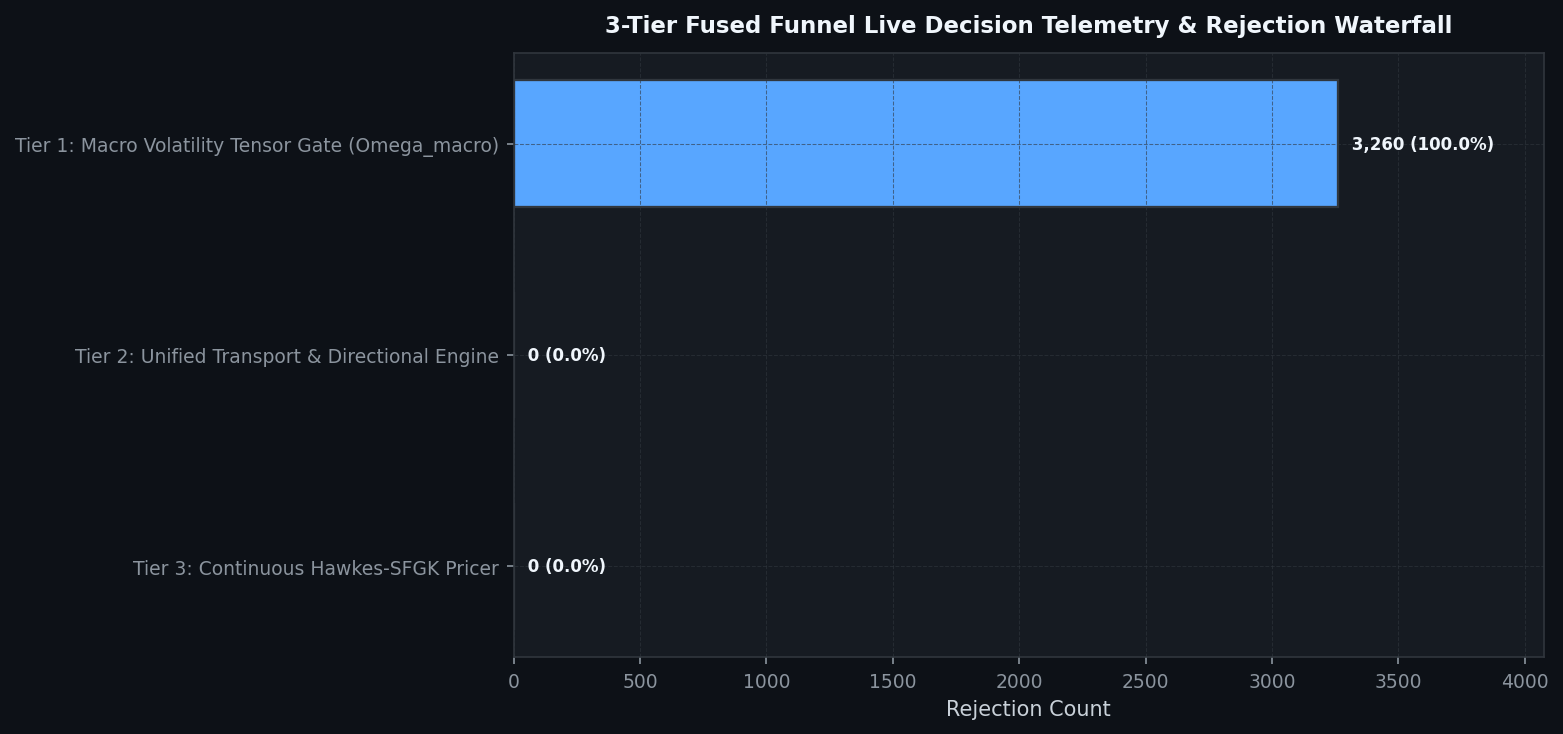
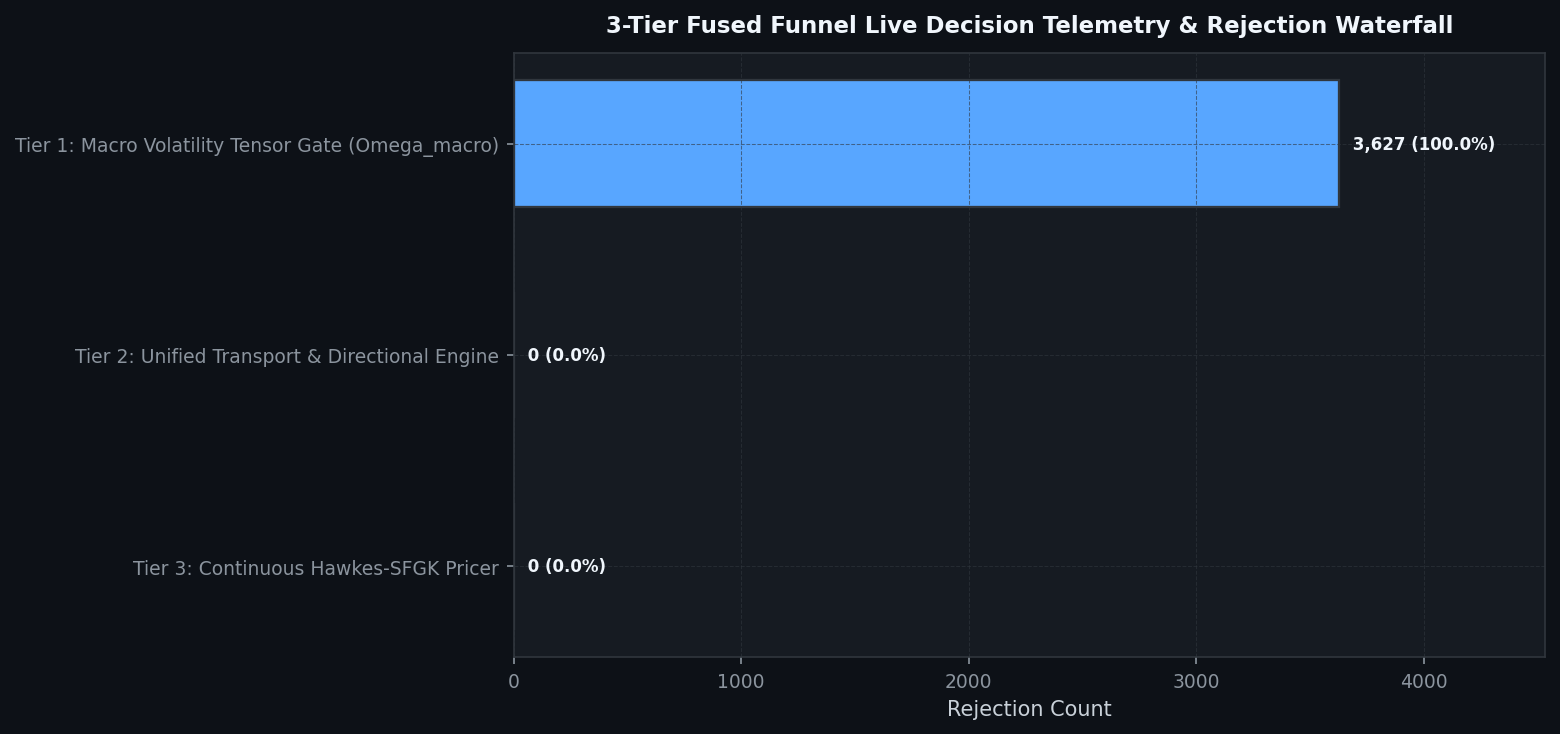
[coinbase] Hourly Status & Visual Intelligence Update: 2026-08-25 16:44:45

diff --git a/coinbase/data/hourly_status_report.md b/coinbase/data/hourly_status_report.md
@@ -3,7 +3,7 @@ layout: default
 ---
 
 # 🛡 Unified Trading System Hourly Status & Visual Intelligence
-> **Report Generated**: `2026-08-25 04:26:22 PM PDT (2026-08-25 23:26:22 UTC)`  
+> **Report Generated**: `2026-08-25 04:44:28 PM PDT (2026-08-25 23:44:28 UTC)`  
 > **System Health**: **🟡 DEGRADED / RESTRICTED** | **Win Rate**: `0.0%` | **Completed Trades**: `0`
 
 
@@ -15,13 +15,13 @@ Real-time Deribit implied volatility (DVOL) proxy tracking against mathematicall
 
 | Symbol | Proxy Oracle | Live Z-Score | Optimal Limit (YSP) | Safety Margin | Live VRP | Optimal VRP (YSP) | DAW Safety Verdict |
 | :--- | :--- | :--- | :--- | :--- | :--- | :--- | :--- |
-| `AVAX-USD` | DVOL_BTC | **+0.15** | **-0.50** | **+0.65** | **-4.36** | 5.0 | 🔴 DAW VETOED |
-| `ETH-USD` | DVOL_ETH | **+0.00** | **-0.50** | **+0.50** | **+10.60** | 5.0 | 🔴 DAW VETOED |
-| `ADA-USD` | DVOL_BTC | **+0.15** | **-0.50** | **+0.65** | **-4.36** | 5.0 | 🔴 DAW VETOED |
-| `DOGE-USD` | DVOL_BTC | **+0.15** | **-0.50** | **+0.65** | **-4.39** | 5.0 | 🔴 DAW VETOED |
-| `BTC-USD` | DVOL_BTC | **+0.15** | **-0.50** | **+0.65** | **-4.37** | 5.0 | 🔴 DAW VETOED |
-| `LINK-USD` | DVOL_BTC | **+0.15** | **-0.50** | **+0.65** | **-4.39** | 5.0 | 🔴 DAW VETOED |
-| `SOL-USD` | DVOL_BTC | **+0.15** | **-0.50** | **+0.65** | **-4.39** | 5.0 | 🔴 DAW VETOED |
+| `AVAX-USD` | DVOL_BTC | **+0.12** | **-0.50** | **+0.62** | **-4.68** | 5.0 | 🔴 DAW VETOED |
+| `ETH-USD` | DVOL_ETH | **-0.40** | **-0.50** | **+0.10** | **+10.18** | 5.0 | 🔴 DAW VETOED |
+| `ADA-USD` | DVOL_BTC | **+0.12** | **-0.50** | **+0.62** | **-4.68** | 5.0 | 🔴 DAW VETOED |
+| `DOGE-USD` | DVOL_BTC | **+0.12** | **-0.50** | **+0.62** | **-4.68** | 5.0 | 🔴 DAW VETOED |
+| `BTC-USD` | DVOL_BTC | **+0.12** | **-0.50** | **+0.62** | **-4.68** | 5.0 | 🔴 DAW VETOED |
+| `LINK-USD` | DVOL_BTC | **+0.12** | **-0.50** | **+0.62** | **-4.68** | 5.0 | 🔴 DAW VETOED |
+| `SOL-USD` | DVOL_BTC | **+0.12** | **-0.50** | **+0.62** | **-4.68** | 5.0 | 🔴 DAW VETOED |
 
 
 
@@ -37,16 +37,16 @@ We hereby certify that the mission-critical algorithmic data assets uploaded by 
 
 | Status | Data Asset | Freshness / State | Details / Timestamp |
 | :---: | :--- | :--- | :--- |
-| ✅ | **Go-List JSON** | Fresh (7.40h old) | 08-25 09:02 |
-| ✅ | **TimesFM Forecasts** | Fresh (0.41h old) | 08-25 16:02 |
-| ❌ | **Holding Times config** | STALE! (103.4h old) | Limit 45.4h |
-| ✅ | **BTC DVOL Cache** | Fresh (0.00h old) | 08-25 16:26 |
-| ✅ | **ETH DVOL Cache** | Fresh (0.00h old) | 08-25 16:26 |
-| ✅ | **Live Trading Telemetry** | Fresh (0.00h old) | 08-25 16:26 |
+| ✅ | **Go-List JSON** | Fresh (7.71h old) | 08-25 09:02 |
+| ✅ | **TimesFM Forecasts** | Fresh (0.71h old) | 08-25 16:02 |
+| ❌ | **Holding Times config** | STALE! (103.7h old) | Limit 45.7h |
+| ✅ | **BTC DVOL Cache** | Fresh (0.01h old) | 08-25 16:44 |
+| ✅ | **ETH DVOL Cache** | Fresh (0.01h old) | 08-25 16:44 |
+| ✅ | **Live Trading Telemetry** | Fresh (0.00h old) | 08-25 16:44 |
 
 <br>
 
-> **Utilization Certification**: ✅ **CERTIFIED.** The Guardian Watchdog is ONLINE and EC2 traders are actively querying the freshest MLOps data artifacts (Found 2324 recent read events).
+> **Utilization Certification**: ✅ **CERTIFIED.** The Guardian Watchdog is ONLINE and EC2 traders are actively querying the freshest MLOps data artifacts (Found 2446 recent read events).
 
 
 ---
@@ -55,7 +55,7 @@ Layer-by-layer tick evaluation waterfall and asset-specific performance tracking
 
 | Funnel Filter Layer | Total Rejections | % of Rejections |
 | :--- | :--- | :--- |
-| Tier 1: Macro Volatility Tensor Gate (Omega_macro) | `3,260` | **100.0%** |
+| Tier 1: Macro Volatility Tensor Gate (Omega_macro) | `3,627` | **100.0%** |
 | Tier 2: Unified Transport & Directional Engine | `0` | **0.0%** |
 | Tier 3: Continuous Hawkes-SFGK Pricer (HAS-Pricer) | `0` | **0.0%** |
 | System: Asset Cooldown Active | `0` | **0.0%** |
@@ -100,14 +100,14 @@ Live balance sheet and open maker liquidity positions from Coinbase CDP.
 ## 4. 🤖 Foundation Model MLOps & Pipeline Orchestration
 Weekly Algorithmic Mega Cap selection, Zero-shot multi-step forward return forecasts, and VSTEF parameter grid search status.
 
-- **TimesFM Forecast DB**: 🟢 Updated 0.4h ago (2026-08-25 04:02 PM PDT)
+- **TimesFM Forecast DB**: 🟢 Updated 0.7h ago (2026-08-25 04:02 PM PDT)
 - **Last Weekly VSTEF Optimization**: `2026-08-05 09:22:38 AM PDT`
-- **Next Scheduled VSTEF Run**: `2026-08-30 07:00:00 PM PDT (Monday 02:00 UTC)` (Countdown: **122.6h (5d 2h 33m)**)
+- **Next Scheduled VSTEF Run**: `2026-08-30 07:00:00 PM PDT (Monday 02:00 UTC)` (Countdown: **122.3h (5d 2h 15m)**)
 - **Promoted Parameter Gates**: $Z_{DVOL} \le -0.5$ | Holding Horizon $= 12\text{h}$
 
 ### Algorithmic Mega Cap Selection
 - **Last Run (Confirmation)**: `2026-08-25 09:02:14 AM PDT`
-- **Next Scheduled Run**: `2026-08-30 06:00:00 PM PDT (Monday 01:00 UTC)` (Countdown: **121.6h (5d 1h 33m)**)
+- **Next Scheduled Run**: `2026-08-30 06:00:00 PM PDT (Monday 01:00 UTC)` (Countdown: **121.3h (5d 1h 15m)**)
 - **Selected Mega Cap Universe**: `BTC, BCH, AVAX, ETH, ALGO, ADA, LTC, DOGE, AAVE, LINK, DOT, HBAR`
 
 
@@ -121,20 +121,20 @@ Visualizing the impact of the VSTEF (Volatility-Synchronized Stop-Tightening Exe
 ## 5. 🖥 Multi-Node Infrastructure & Watchdog Matrix
 ```text
 ================================================================================
-   🛡  SFGK FUNNEL GUARDIAN WATCHDOG (HFT ONLY) |  11:26:19 PM
-   CPU:  26.2%  |  MEM:   6.0% (14.5GB / 15.4GB Free)
+   🛡  SFGK FUNNEL GUARDIAN WATCHDOG (HFT ONLY) |  11:44:25 PM
+   CPU:  13.7%  |  MEM:   5.6% (14.5GB / 15.4GB Free)
 ================================================================================
 SERVICE              | PID      | STATUS          | RESTARTS | INFO
 --------------------------------------------------------------------------------
 L3 Consumer          | 3834078  | RUNNING         | -        | Continuous Websocket Feed
 MAO Daemon           | 3834154  | RUNNING         | -        | Oracle Yield Analysis
 Stable Farmer        | 3834156  | RUNNING         | -        | Volume Farmer
-Trader AVAX-USD      | 3918813  | COOL-DOWN       | 279      | Next run in 4.6s
-Trader ETH-USD       | 3918826  | COOL-DOWN       | 282      | Next run in 9.7s
-Trader ADA-USD       | 3918814  | COOL-DOWN       | 278      | Next run in 4.6s
-Trader DOGE-USD      | 3918880  | COOL-DOWN       | 276      | Next run in 14.9s
-Trader BTC-USD       | 3919059  | RUNNING         | 283      | Evaluating Funnel/Polling Order
-Trader LINK-USD      | 3918881  | COOL-DOWN       | 276      | Next run in 14.9s
+Trader AVAX-USD      | 3934961  | RUNNING         | 332      | Evaluating Funnel/Polling Order
+Trader ETH-USD       | 3934817  | COOL-DOWN       | 335      | Next run in 14.8s
+Trader ADA-USD       | 3934779  | COOL-DOWN       | 331      | Next run in 9.7s
+Trader DOGE-USD      | 3934780  | COOL-DOWN       | 328      | Next run in 9.7s
+Trader BTC-USD       | 3934663  | COOL-DOWN       | 335      | Next run in 4.5s
+Trader LINK-USD      | 3934426  | COOL-DOWN       | 327      | Next run in 4.5s
 ```
 
 ---

diff --git a/coinbase/data/visual_intelligence.md b/coinbase/data/visual_intelligence.md
@@ -4,7 +4,7 @@ title: Visual Intelligence Gallery
 ---
 
 # 📈 Visual Intelligence Gallery
-> **Generated:** `2026-08-25 16:26:39`
+> **Generated:** `2026-08-25 16:44:45`
 > **[Return to Main Status Report](./hourly_status_report.md)**
 
 This page visualizes the internal states, market profiles, and decision criteria of the active **3-Tier Fused Decision Engine** across all layers.
